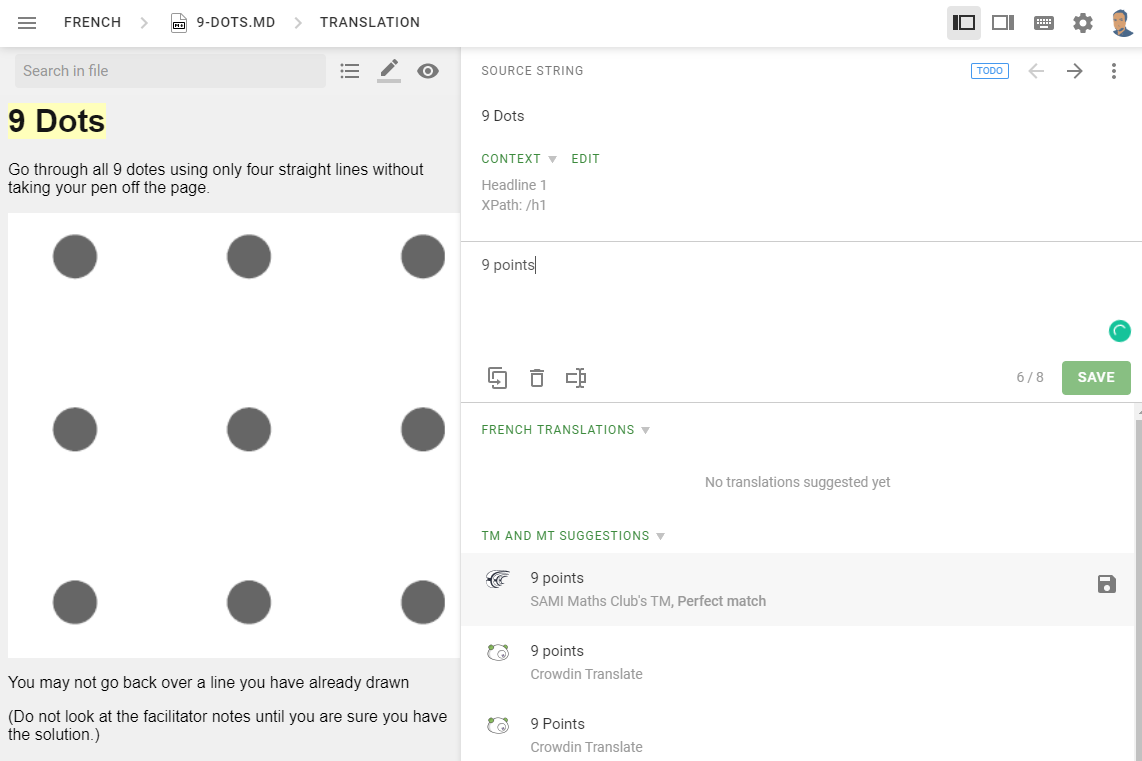
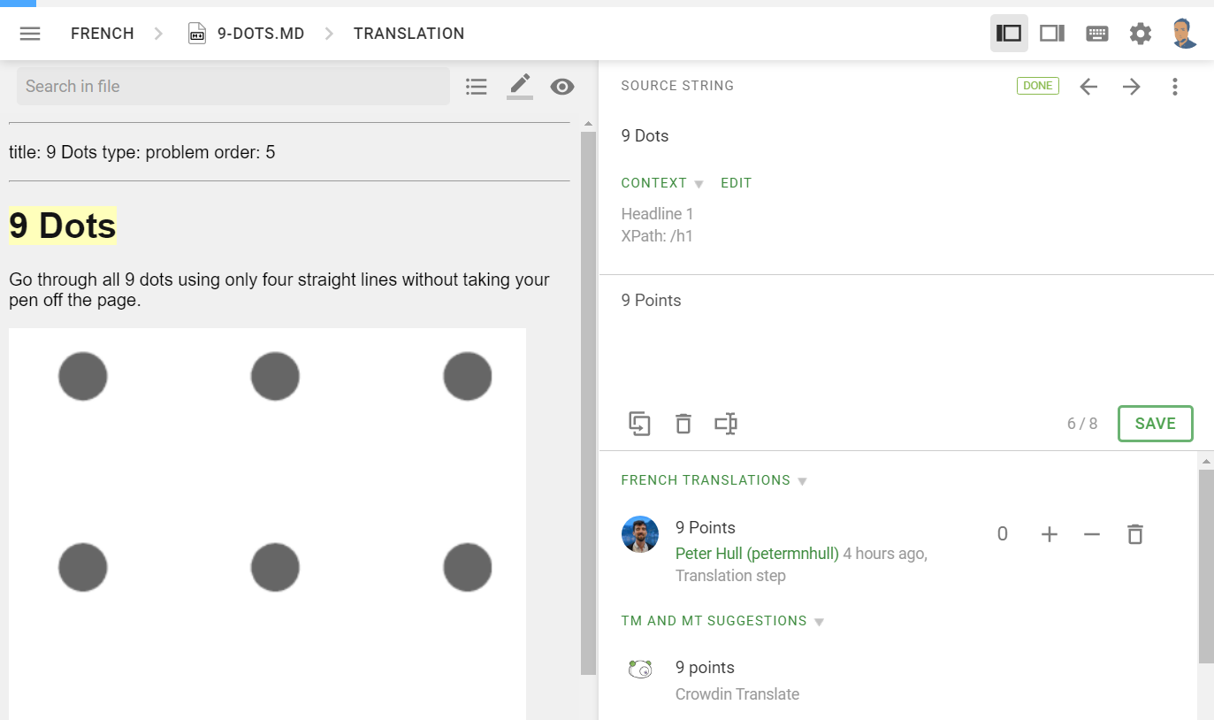
update translator docs

diff --git a/documentation/translators.md b/documentation/translators.md
@@ -1,16 +1,18 @@
 # Translators Documentation
 
 ## Joining the Project
-All translations are managed online via a system called crowdin. You can join the project by clicking on the direct link: https://sami.crowdin.com 
+
+All translations are managed online via a system called crowdin. You can join the project by clicking on the direct link: https://sami.crowdin.com
 
 Once joined, you will still need an invite to the maths club project. Email [admin@supportingami.org](mailto:admin@supportingami.org?subject=SAMI%20Maths%20Club%20Translations) to request an invite
 
 ![](./images/crowdin-new.png)
 
 ## Project Home Page
+
 ![](./images/translators-1.png)
 
-Here you will see a list of languages and current translation status. 
+Here you will see a list of languages and current translation status.
 
 There are two bars, a blue one showing submitted translations and a green one showing approved translations.
 
@@ -21,13 +23,17 @@ Clicking on a language gives a full breakdown by problem
 Clicking on a row will load the editor
 
 ## Translation Editor Page
+
 ![](./images/translators-3.png)
-Text for translation is highlighted in yellow. You can see the current translation in the box on the right, alongside other possible recommendations. Make required changes to the translation and click save. 
+Text for translation is highlighted in yellow. You can see the current translation in the box on the right, alongside other possible recommendations. Make required changes to the translation and click save.
+
+**Note** you can ignore the text at the very top (title:... type:... order:...), this is just additional data used in the app.
 
 Click the view toggle icon to see the problem as currently translated.
 ![](./images/translators-4.png)
 
 ## Proofreading Page
+
 All translations also require proofreading. Anybody can proofread, although it is best if this is somebody other than the original translator. The job of the proofreader is to check all text is translated correctly, and in case of any conflict from multiple translations decide which version to keep.
 
 You can toggle this screen from the menu bar breadcrumbs.
@@ -35,6 +41,7 @@ You can toggle this screen from the menu bar breadcrumbs.
 ![](./images/translators-5.png)
 
 ## Loading More Files
+
 Once translation has been complete for a problem different problems can be loaded from the menu bar breadcrumbs.
 
 ![](./images/translators-6.png)
